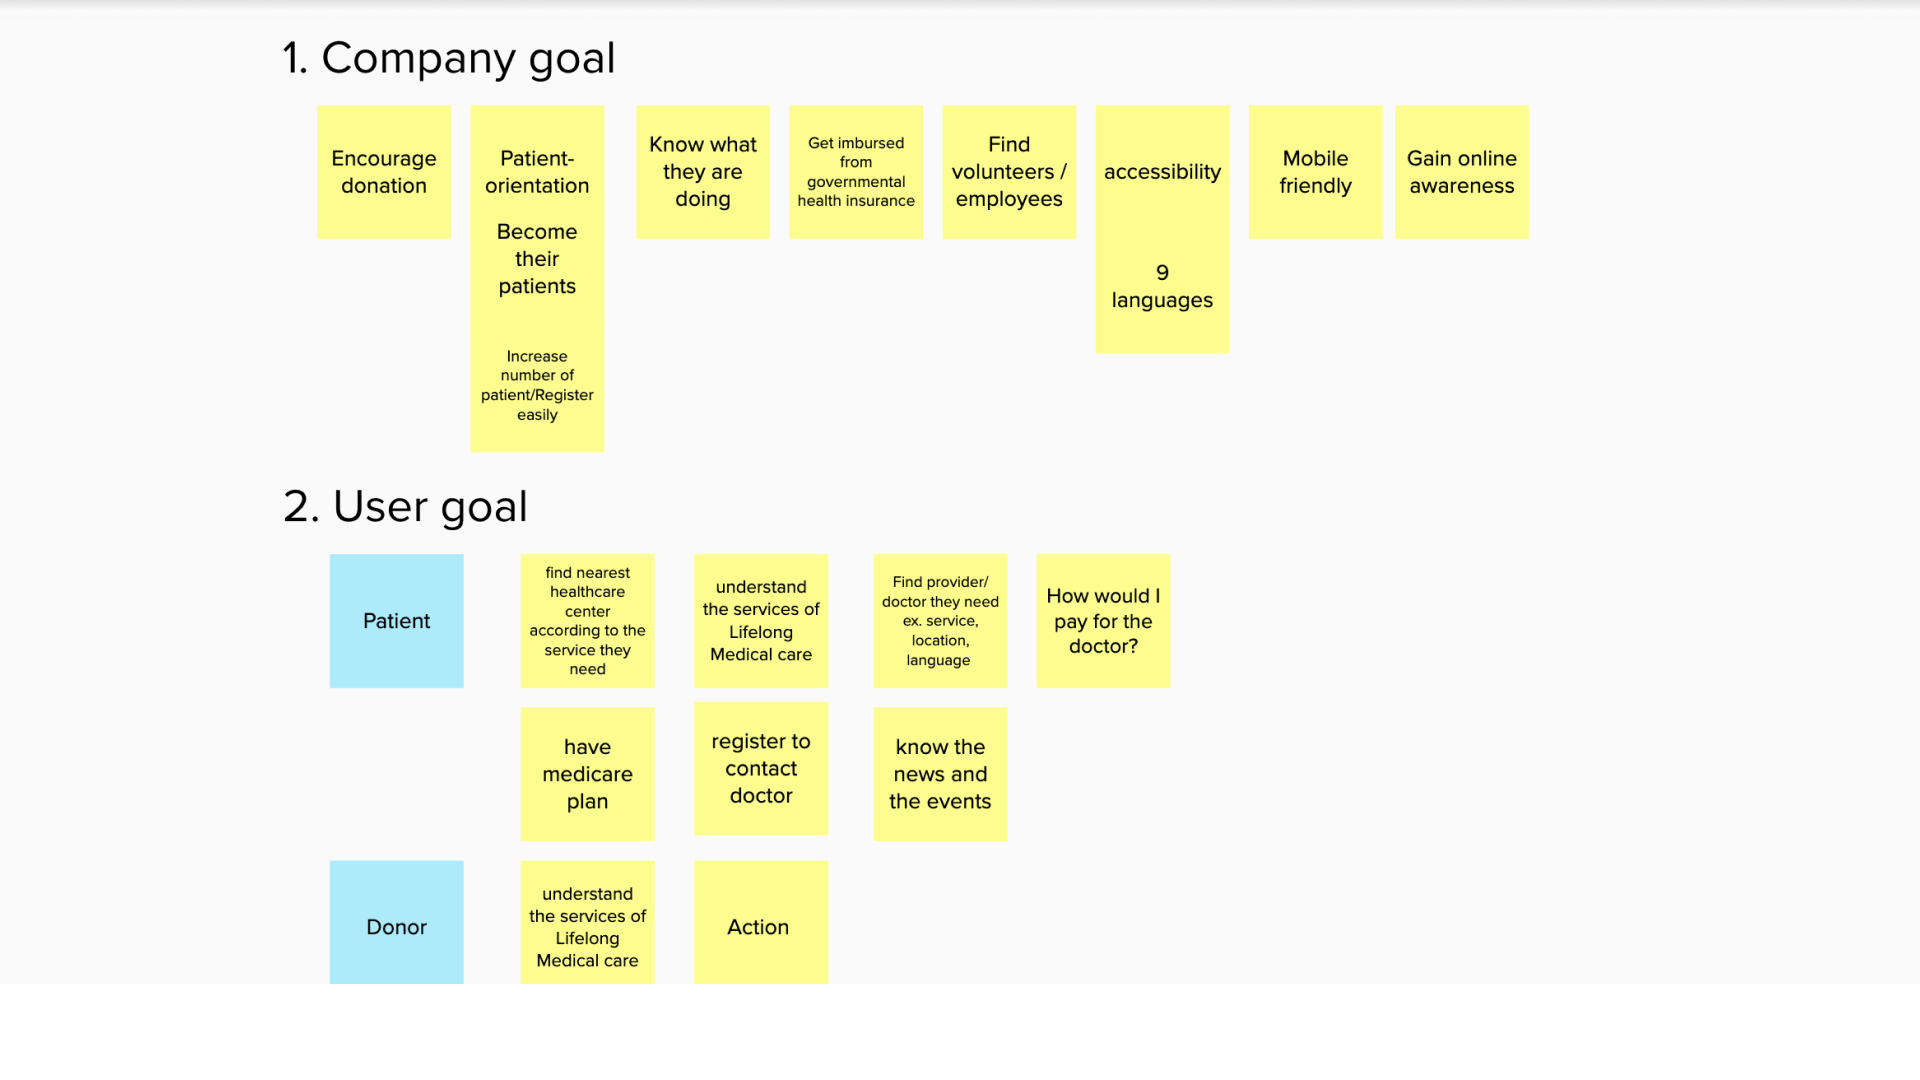
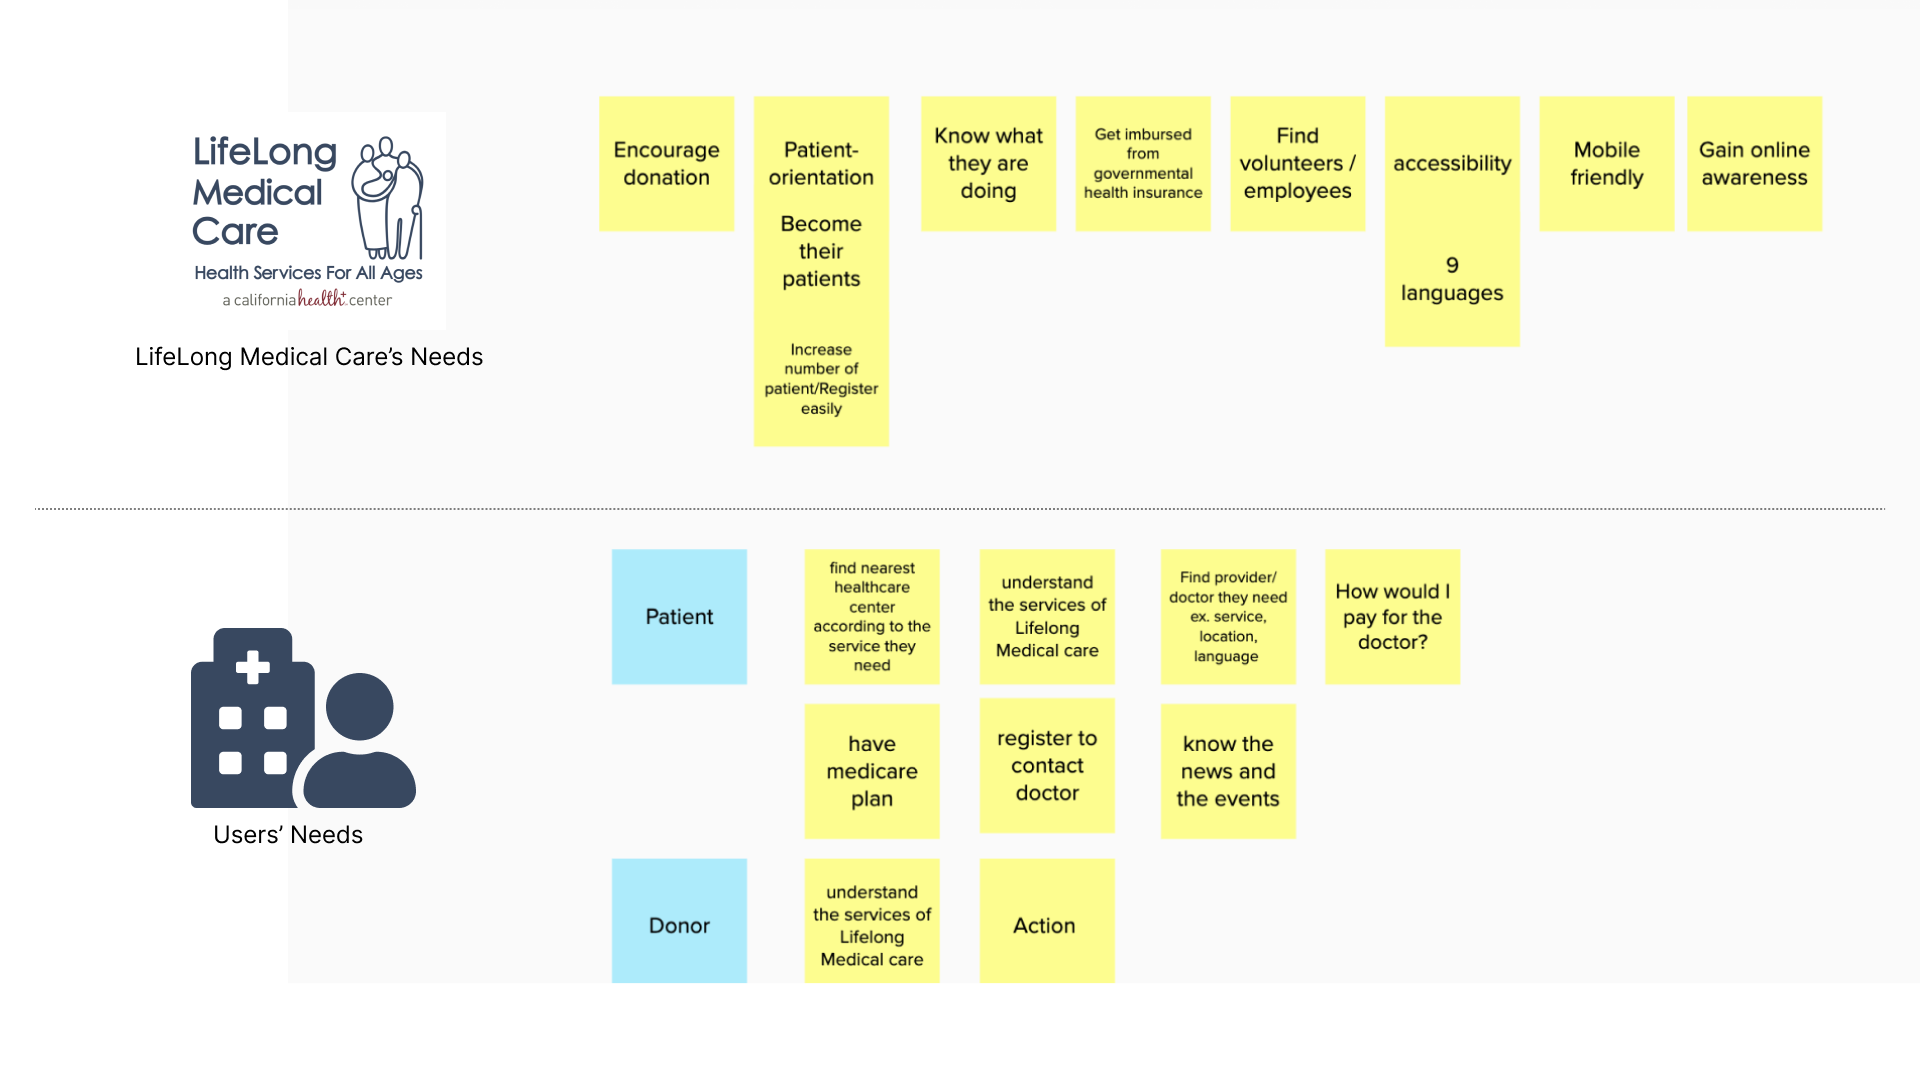
lifelong

Changed region(s): [[0.0938, 0.4583, 0.7812, 0.9167], [0.0625, 0.0306, 0.9688, 0.4278]]

diff --git a/lifelong.html b/lifelong.html
@@ -208,7 +208,7 @@ http://www.templatemo.com/tm-488-classic
                         <h3 class="tm-gold-text">1. Understand Client And User Goals</h3><br/>
                       
 
-                        <p>To redesign the website, we conduct an interview with our client to better understand their goals and those of their users.</p><img src="img/lifelong/1.png" alt="Image" class="img-fluid tm-img-post">
+                        <p>To redesign the website, we conduct an interview with our client to better understand their needs and those of their users.</p><img src="img/lifelong/1.png" alt="Image" class="img-fluid tm-img-post">
                     </div></div>
                 <hr class="hr-edge-weak">
 

diff --git a/index.html b/index.html
@@ -131,7 +131,7 @@ http://www.templatemo.com/tm-488-classic
 
                           
                        
-							
+						
 							
 							<div class="col-xs-12 col-sm-6 col-md-6 col-lg-6 col-xl-6 filtr-item" data-category="1,2" data-sort="value">
                                 <div class="tm-content-box">
